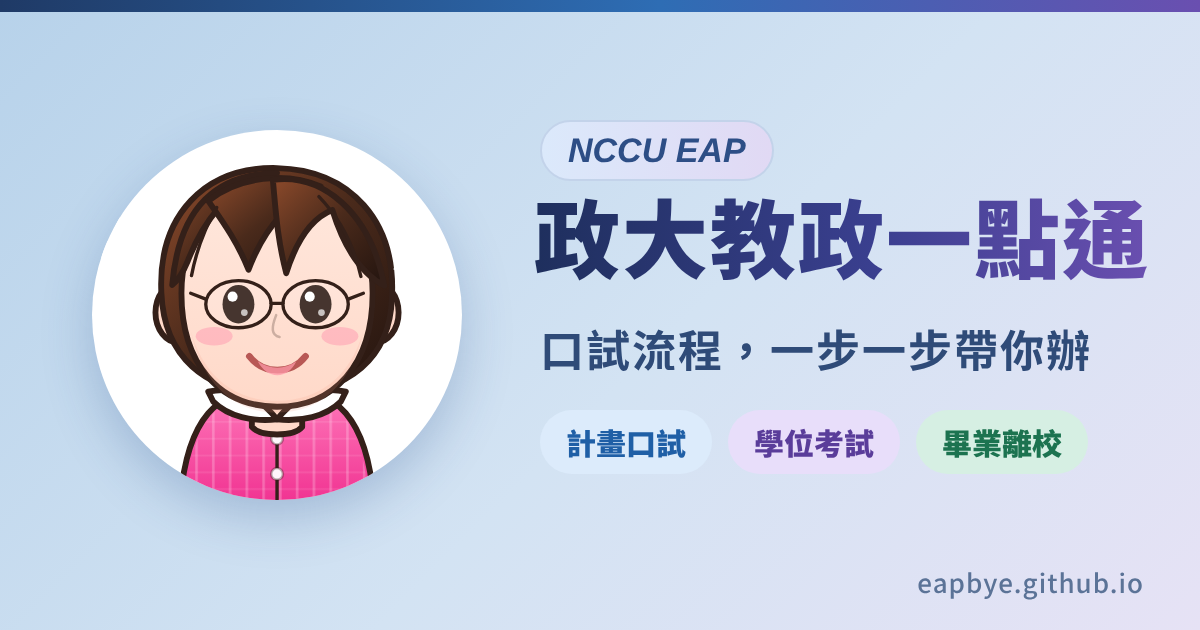
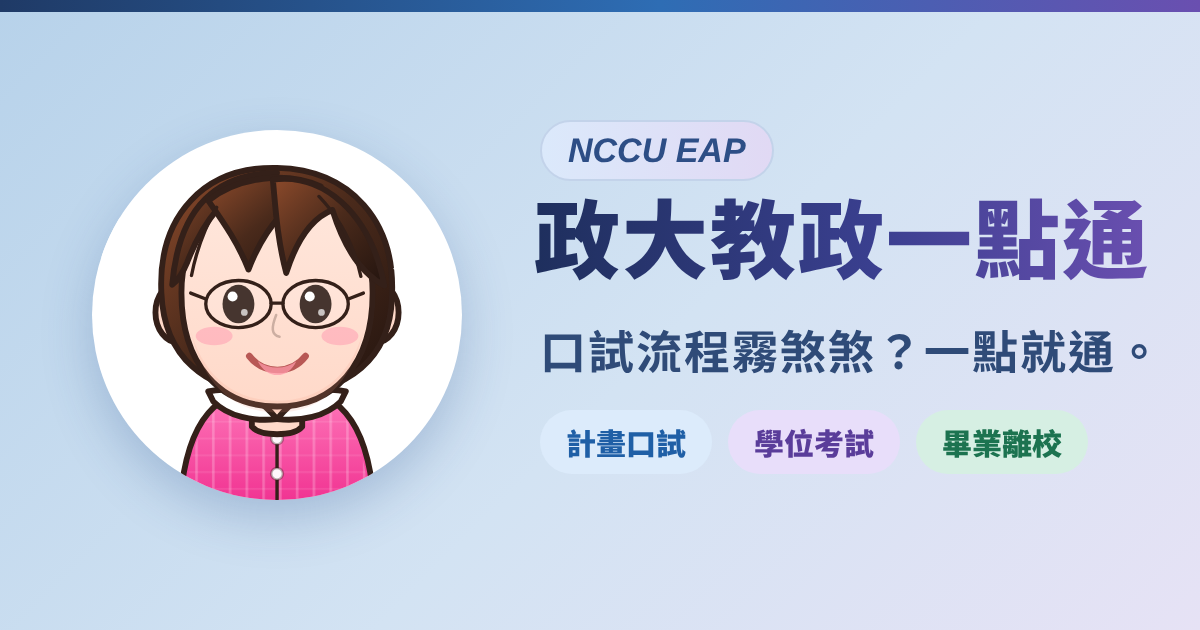
3.0.15：預覽圖標語改「口試流程霧煞煞？一點就通。」、分享描述更新、圖片不收錄、移除畢業照大原檔
Claude-Session: https://claude.ai/code/session_01GTpo6hNHF6VGvaNy1iD4dg

Changed region(s): [[0.4625, 0.5127, 0.9558, 0.6032], [0.7708, 0.9048, 0.9558, 0.9651], [0.2158, 0.6333, 0.2467, 0.6937]]

diff --git a/index.html b/index.html
@@ -4,21 +4,22 @@
   <meta charset="utf-8">
   <meta name="viewport" content="width=device-width, initial-scale=1">
   <meta http-equiv="Content-Security-Policy" content="default-src 'self'; script-src 'self'; style-src 'self' 'unsafe-inline'; img-src 'self' data: blob:; font-src 'self' data:; media-src 'self' data:; connect-src 'self'; object-src 'none'; base-uri 'self'; form-action 'self'">
+  <meta name="robots" content="noimageindex">
   <meta name="referrer" content="strict-origin-when-cross-origin">
   <title>政大教政一點通</title>
-  <meta name="description" content="口試流程霧煞煞？點擊進入，讓畢業之路不再卡關。">
+  <meta name="description" content="計畫口試、學位考試、畢業離校，表單下載、期限提醒，一步一步帶你辦。">
   <meta property="og:type" content="website">
   <meta property="og:title" content="政大教政一點通">
-  <meta property="og:description" content="口試流程霧煞煞？點擊進入，讓畢業之路不再卡關。">
+  <meta property="og:description" content="計畫口試、學位考試、畢業離校，表單下載、期限提醒，一步一步帶你辦。">
   <meta property="og:url" content="https://eapbye.github.io/">
   <meta property="og:image" content="https://eapbye.github.io/css/og-image.png">
   <meta property="og:image:width" content="1200">
   <meta property="og:image:height" content="630">
-  <meta property="og:image:alt" content="政大教政一點通：口試流程，一步一步帶你辦">
+  <meta property="og:image:alt" content="政大教政一點通：口試流程霧煞煞？一點就通。">
   <meta name="twitter:card" content="summary_large_image">
   <meta name="twitter:image" content="https://eapbye.github.io/css/og-image.png">
   <meta name="twitter:title" content="政大教政一點通">
-  <meta name="twitter:description" content="口試流程霧煞煞？點擊進入，讓畢業之路不再卡關。">
+  <meta name="twitter:description" content="計畫口試、學位考試、畢業離校，表單下載、期限提醒，一步一步帶你辦。">
   <link rel="icon" type="image/svg+xml" href="css/favicon.svg">
   <link rel="icon" type="image/png" sizes="32x32" href="css/favicon-32.png">
   <link rel="apple-touch-icon" href="css/apple-touch-icon.png">

diff --git a/js/app.js b/js/app.js
@@ -1524,7 +1524,7 @@
             </span>
             <strong>${item.year}</strong>
           `;
-          watchImageFallback(button.querySelector("img"), () => {}, `graduation/${item.folder}/cover.jpg`);
+          watchImageFallback(button.querySelector("img"), () => {});
         } else {
           // 沒有照片的級數（尚未拍畢業照／還不能畢業）：照片位置放哭臉，高度與有照片的卡片一致
           button.classList.add("has-placeholder");
@@ -1590,8 +1590,7 @@
         renderGraduationCoverPlaceholder(hero.querySelector(".graduation-cover img"), item.coverPlaceholder, Boolean(item.coverCryFace));
       } else watchImageFallback(
         hero.querySelector(".graduation-cover img"),
-        (img) => renderGraduationCoverPlaceholder(img, item.coverPlaceholder || `${item.year}畢業專區封面照片`, Boolean(item.coverCryFace)),
-        `graduation/${item.folder}/cover.jpg`
+        (img) => renderGraduationCoverPlaceholder(img, item.coverPlaceholder || `${item.year}畢業專區封面照片`, Boolean(item.coverCryFace))
       );
 
       const checklist = document.createElement("section");

diff --git a/tests/check_consistency.py b/tests/check_consistency.py
@@ -139,7 +139,7 @@ def check(root):
             if not folder or "pendingTitle" in body or "coverPlaceholder" in body:  # 還不能畢業／還沒拍畢業照：不需要圖
                 continue
             card = re.search(r'cardImage:\s*"([^"]+)"', body)
-            for name in (card.group(1) if card else "cover-card.jpg", "cover-detail.jpg", "cover.jpg"):
+            for name in (card.group(1) if card else "cover-card.jpg", "cover-detail.jpg"):
                 p = os.path.join(root, "graduation", folder.group(1), name)
                 if not os.path.isfile(p):
                     add("FAIL", f"畢業專區 {folder.group(1)} 級缺圖：graduation/{folder.group(1)}/{name}")
